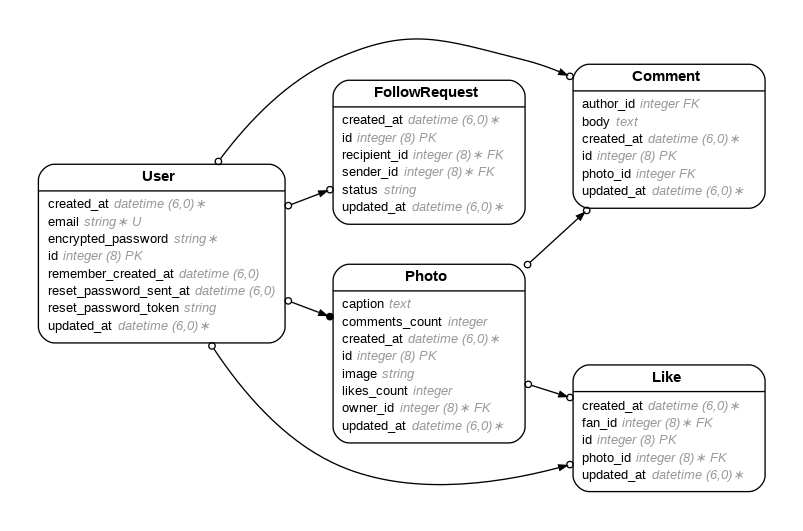
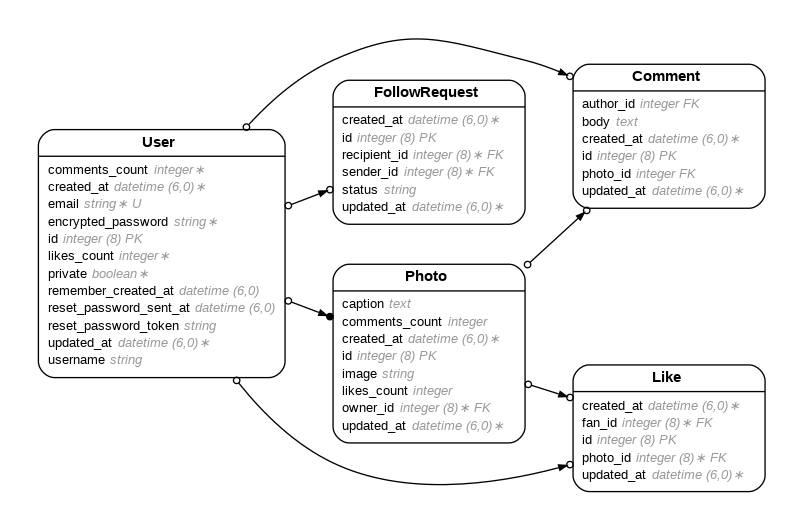
14/whatever

Changed region(s): [[0.0311, 0.2411, 0.3736, 0.7232]]

diff --git a/config/routes.rb b/config/routes.rb
@@ -1,83 +1,27 @@
 Rails.application.routes.draw do
-  # Routes for the Like resource:
+  get 'users/index'
+  get 'users/show'
+  get 'users/new'
+  get 'users/edit'
+  get 'home/index'
+  # Routes for Like resource
+  resources :likes, only: [:index, :show, :create, :update, :destroy], param: :path_id
 
-  # CREATE
-  post("/insert_like", { :controller => "likes", :action => "create" })
-          
-  # READ
-  get("/likes", { :controller => "likes", :action => "index" })
-  
-  get("/likes/:path_id", { :controller => "likes", :action => "show" })
-  
-  # UPDATE
-  
-  post("/modify_like/:path_id", { :controller => "likes", :action => "update" })
-  
-  # DELETE
-  get("/delete_like/:path_id", { :controller => "likes", :action => "destroy" })
+  # Routes for Follow request resource
+  resources :follow_requests, only: [:index, :show, :create, :update, :destroy], param: :path_id
 
-  #------------------------------
+  # Routes for Comment resource
+  resources :comments, only: [:index, :show, :create, :update, :destroy], param: :path_id
 
-  # Routes for the Follow request resource:
+  # Routes for Photo resource
+  resources :photos, only: [:index, :show, :create, :update, :destroy], param: :path_id
 
-  # CREATE
-  post("/insert_follow_request", { :controller => "follow_requests", :action => "create" })
-          
-  # READ
-  get("/follow_requests", { :controller => "follow_requests", :action => "index" })
-  
-  get("/follow_requests/:path_id", { :controller => "follow_requests", :action => "show" })
-  
-  # UPDATE
-  
-  post("/modify_follow_request/:path_id", { :controller => "follow_requests", :action => "update" })
-  
-  # DELETE
-  get("/delete_follow_request/:path_id", { :controller => "follow_requests", :action => "destroy" })
-
-  #------------------------------
-
-  # Routes for the Comment resource:
-
-  # CREATE
-  post("/insert_comment", { :controller => "comments", :action => "create" })
-          
-  # READ
-  get("/comments", { :controller => "comments", :action => "index" })
-  
-  get("/comments/:path_id", { :controller => "comments", :action => "show" })
-  
-  # UPDATE
-  
-  post("/modify_comment/:path_id", { :controller => "comments", :action => "update" })
-  
-  # DELETE
-  get("/delete_comment/:path_id", { :controller => "comments", :action => "destroy" })
-
-  #------------------------------
-
-  # Routes for the Photo resource:
-
-  # CREATE
-  post("/insert_photo", { :controller => "photos", :action => "create" })
-          
-  # READ
-  get("/photos", { :controller => "photos", :action => "index" })
-  
-  get("/photos/:path_id", { :controller => "photos", :action => "show" })
-  
-  # UPDATE
-  
-  post("/modify_photo/:path_id", { :controller => "photos", :action => "update" })
-  
-  # DELETE
-  get("/delete_photo/:path_id", { :controller => "photos", :action => "destroy" })
-
-  #------------------------------
-
+  # Devise user routes
   devise_for :users
-  # Define your application routes per the DSL in https://guides.rubyonrails.org/routing.html
 
-  # Defines the root path route ("/")
-  # root "articles#index"
+  # Routes for Users controller
+  resources :users, only: [:index, :show, :new, :edit]
+
+  # Root path (uncomment if needed)
+  root "home#index"
 end

diff --git a/db/schema.rb b/db/schema.rb
@@ -10,16 +10,18 @@
 #
 # It's strongly recommended that you check this file into your version control system.
 
-ActiveRecord::Schema[7.1].define(version: 2024_12_08_070924) do
+ActiveRecord::Schema[7.1].define(version: 2024_12_08_071304) do
   # These are extensions that must be enabled in order to support this database
   enable_extension "plpgsql"
 
   create_table "comments", force: :cascade do |t|
     t.text "body"
-    t.integer "author_id"
-    t.integer "photo_id"
+    t.bigint "author_id", null: false
+    t.bigint "photo_id", null: false
     t.datetime "created_at", null: false
     t.datetime "updated_at", null: false
+    t.index ["author_id"], name: "index_comments_on_author_id"
+    t.index ["photo_id"], name: "index_comments_on_photo_id"
   end
 
   create_table "follow_requests", force: :cascade do |t|
@@ -60,10 +62,16 @@ ActiveRecord::Schema[7.1].define(version: 2024_12_08_070924) do
     t.datetime "remember_created_at"
     t.datetime "created_at", null: false
     t.datetime "updated_at", null: false
+    t.string "username"
+    t.boolean "private", default: false, null: false
+    t.integer "likes_count", default: 0, null: false
+    t.integer "comments_count", default: 0, null: false
     t.index ["email"], name: "index_users_on_email", unique: true
     t.index ["reset_password_token"], name: "index_users_on_reset_password_token", unique: true
   end
 
+  add_foreign_key "comments", "photos"
+  add_foreign_key "comments", "users", column: "author_id"
   add_foreign_key "follow_requests", "users", column: "recipient_id"
   add_foreign_key "follow_requests", "users", column: "sender_id"
   add_foreign_key "likes", "photos"

diff --git a/app/models/user.rb b/app/models/user.rb
@@ -3,11 +3,15 @@
 # Table name: users
 #
 #  id                     :bigint           not null, primary key
+#  comments_count         :integer          default(0), not null
 #  email                  :string           default(""), not null
 #  encrypted_password     :string           default(""), not null
+#  likes_count            :integer          default(0), not null
+#  private                :boolean          default(FALSE), not null
 #  remember_created_at    :datetime
 #  reset_password_sent_at :datetime
 #  reset_password_token   :string
+#  username               :string
 #  created_at             :datetime         not null
 #  updated_at             :datetime         not null
 #

diff --git a/db/migrate/20241208071304_add_comments_count_to_users.rb b/db/migrate/20241208071304_add_comments_count_to_users.rb
@@ -1,0 +1,5 @@
+class AddCommentsCountToUsers < ActiveRecord::Migration[7.0]
+  def change
+    add_column :users, :comments_count, :integer, default: 0, null: false
+  end
+end

diff --git a/db/migrate/20241208071228_add_likes_count_to_users.rb b/db/migrate/20241208071228_add_likes_count_to_users.rb
@@ -1,0 +1,5 @@
+class AddLikesCountToUsers < ActiveRecord::Migration[7.0]
+  def change
+    add_column :users, :likes_count, :integer, default: 0, null: false
+  end
+end

diff --git a/db/migrate/20241208071139_add_private_to_users.rb b/db/migrate/20241208071139_add_private_to_users.rb
@@ -1,0 +1,5 @@
+class AddPrivateToUsers < ActiveRecord::Migration[7.0]
+  def change
+    add_column :users, :private, :boolean, default: false, null: false
+  end
+end

diff --git a/app/controllers/users_controller.rb b/app/controllers/users_controller.rb
@@ -1,0 +1,13 @@
+class UsersController < ApplicationController
+  def index
+  end
+
+  def show
+  end
+
+  def new
+  end
+
+  def edit
+  end
+end

diff --git a/db/migrate/20241208071055_add_username_to_users.rb b/db/migrate/20241208071055_add_username_to_users.rb
@@ -1,0 +1,5 @@
+class AddUsernameToUsers < ActiveRecord::Migration[7.1]
+  def change
+    add_column :users, :username, :string
+  end
+end

diff --git a/app/controllers/home_controller.rb b/app/controllers/home_controller.rb
@@ -1,0 +1,4 @@
+class HomeController < ApplicationController
+  def index
+  end
+end
